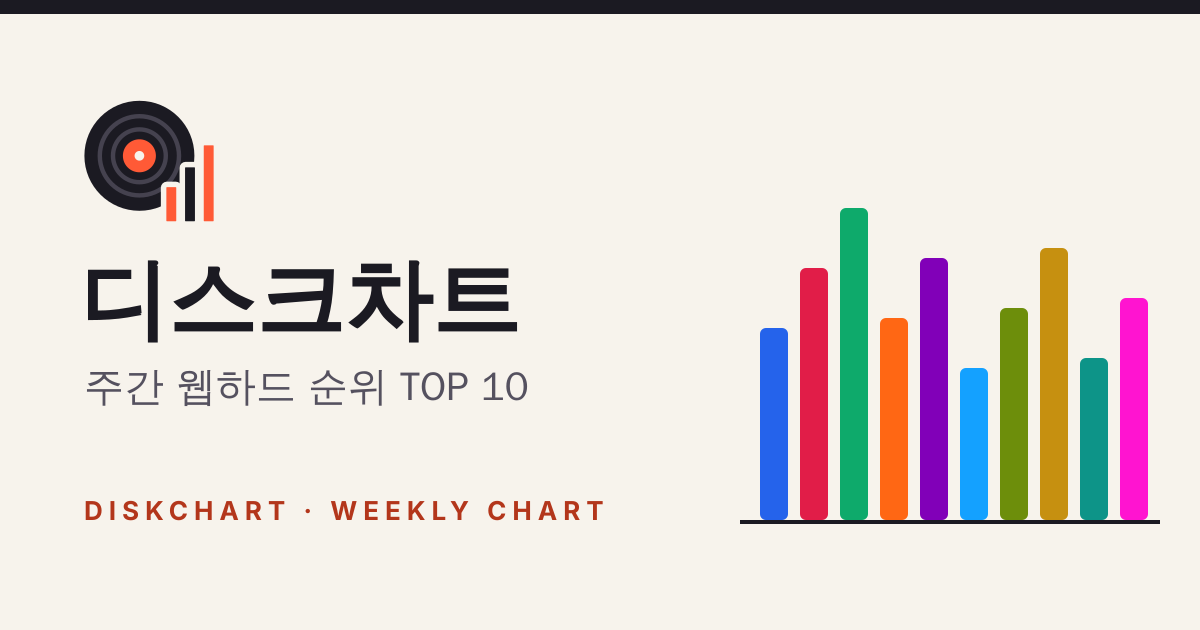
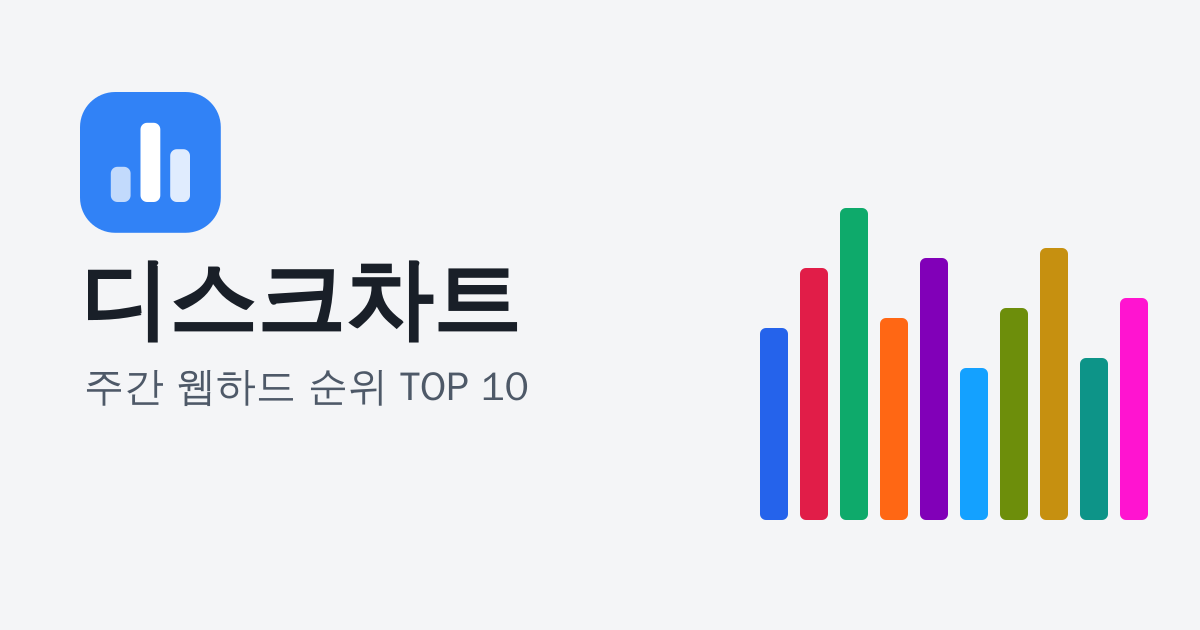
Drop the concept styling for a plain service look
Neutral grey background with white cards, soft shadows instead of heavy black borders and offset shadows, a blue accent, a simple bar-chart mark without the English tagline, and regenerated share and touch images. Mid-tone vendor colors fall back to black text when the ink color would miss AA.

diff --git a/src/css/site.css b/src/css/site.css
@@ -1,20 +1,21 @@
 /* Design tokens: every color, gap and radius used below comes from here. */
 :root {
-  --paper: #f7f3ec;
-  --paper-deep: #eee6d8;
-  --card: #fffdf9;
-  --ink: #1b1a22;
-  --ink-soft: #55515f;
-  --rule: #e2d9c9;
-  --rule-strong: #cbbfac;
-  --brand: #ff5a36;
-  --brand-ink: #b3361b;
-  --up: #c2341f;
+  --paper: #f4f5f7;
+  --paper-deep: #eaecef;
+  --card: #ffffff;
+  --ink: #191f28;
+  --ink-soft: #4e5968;
+  --rule: #e5e8eb;
+  --rule-strong: #cdd2d8;
+  --brand: #3182f6;
+  --brand-ink: #1b64da;
+  --up: #d92633;
   --down: #1f5bc9;
   --new: #7a2fd0;
-  --star: #e89b00;
-  --star-off: #d9cfbf;
-  --focus: #1f5bc9;
+  --star: #f5a000;
+  --star-off: #d1d6db;
+  --focus: #1b64da;
+  --lift: 0 2px 6px rgba(25, 31, 40, 0.04), 0 8px 24px rgba(25, 31, 40, 0.08);
 
   --sp-1: 4px;
   --sp-2: 8px;
@@ -33,7 +34,6 @@
   --wrap: 1180px;
   --tap: 44px;
   --rule-w: 1px;
-  --rule-heavy: 3px;
 
   --font: "Pretendard", "Apple SD Gothic Neo", "Malgun Gothic", "Noto Sans KR", system-ui, sans-serif;
   --fs-xs: 0.8125rem;
@@ -154,8 +154,8 @@ ol {
 .masthead {
   position: relative;
   z-index: 10;
-  background: var(--paper);
-  border-bottom: var(--rule-heavy) solid var(--ink);
+  background: var(--card);
+  border-bottom: var(--rule-w) solid var(--rule);
 }
 
 .masthead-in {
@@ -177,16 +177,6 @@ ol {
   text-decoration: none;
 }
 
-.brand-sub {
-  display: none;
-  padding-left: var(--sp-2);
-  border-left: var(--rule-w) solid var(--rule-strong);
-  color: var(--ink-soft);
-  font-size: var(--fs-xs);
-  font-weight: 600;
-  letter-spacing: 0.08em;
-}
-
 .menu-btn {
   display: inline-flex;
   align-items: center;
@@ -195,7 +185,7 @@ ol {
   min-width: var(--tap);
   min-height: var(--tap);
   padding: 0 var(--sp-3);
-  border: var(--rule-w) solid var(--ink);
+  border: var(--rule-w) solid var(--rule-strong);
   border-radius: var(--r-pill);
   background: var(--card);
   color: var(--ink);
@@ -217,7 +207,8 @@ ol {
   left: 0;
   right: 0;
   background: var(--card);
-  border-bottom: var(--rule-heavy) solid var(--ink);
+  border-bottom: var(--rule-w) solid var(--rule);
+  box-shadow: var(--lift);
 }
 
 .nav.is-open {
@@ -263,8 +254,8 @@ ol {
 .issue {
   padding: 2px var(--sp-2);
   border-radius: var(--r-pill);
-  background: var(--ink);
-  color: var(--paper);
+  background: var(--paper-deep);
+  color: var(--ink);
 }
 
 .hero h1 {
@@ -282,11 +273,6 @@ ol {
   margin-top: var(--sp-2);
   font-size: var(--fs-s);
   font-weight: 700;
-}
-
-.stamp time {
-  padding-bottom: 1px;
-  border-bottom: 2px solid var(--brand);
 }
 
 .caveat {
@@ -311,7 +297,6 @@ ol {
   justify-content: space-between;
   gap: var(--sp-3);
   padding-bottom: var(--sp-2);
-  border-bottom: var(--rule-w) solid var(--ink);
 }
 
 .section-head h2 {
@@ -383,14 +368,15 @@ ol {
 }
 
 .entry.is-podium {
-  border: 2px solid var(--ink);
-  box-shadow: 4px 4px 0 var(--ink);
+  border-color: transparent;
+  border-radius: var(--r-3);
+  box-shadow: var(--lift);
 }
 
 .entry.is-podium:hover,
 .entry.is-podium:focus-within {
-  border-color: var(--ink);
-  box-shadow: 4px 4px 0 var(--vc);
+  border-color: var(--vc);
+  box-shadow: var(--lift);
 }
 
 .entry.is-podium .entry-no {
@@ -408,10 +394,6 @@ ol {
 
 .entry.is-podium .entry-name.is-longer {
   font-size: var(--fs-xs);
-}
-
-.rest .entry {
-  background: transparent;
 }
 
 .move {
@@ -808,8 +790,8 @@ ol {
 .notice {
   margin-top: var(--sp-5);
   padding: var(--sp-3) var(--sp-4);
-  border-left: var(--rule-heavy) solid var(--brand);
-  background: var(--card);
+  border-radius: var(--r-2);
+  background: var(--paper-deep);
   color: var(--ink-soft);
   font-size: var(--fs-xs);
 }
@@ -969,7 +951,7 @@ ol {
   justify-content: space-between;
   padding: var(--sp-2) var(--sp-4);
   font-weight: 800;
-  border-top: var(--rule-heavy) solid var(--ink);
+  border-top: var(--rule-w) solid var(--rule-strong);
 }
 
 .trend {
@@ -1094,10 +1076,6 @@ ol {
     --gutter: 24px;
   }
 
-  .brand-sub {
-    display: inline;
-  }
-
   .kicker {
     display: flex;
   }
@@ -1125,6 +1103,7 @@ ol {
     position: static;
     background: none;
     border: 0;
+    box-shadow: none;
   }
 
   .nav ul {

diff --git a/src/css/nojs.css b/src/css/nojs.css
@@ -11,6 +11,7 @@
   position: static;
   background: none;
   border: 0;
+  box-shadow: none;
 }
 
 .nav ul {

diff --git a/CLAUDE.md b/CLAUDE.md
@@ -76,9 +76,10 @@ tests/                  단위·빌드 테스트, render.mjs·ui-audit.mjs, fixt
 - **`_site/`에는 공개 HTML/assets/sitemap/robots/llms/favicon만**. `data/`·소스·테스트·설정 제외.
 - **CSP/referrer 전체 적용**, 인라인 `style` 금지; `.vc-<id>`/`.st-NN` 빌드 생성. 이동 페이지 인라인 스크립트에 CSP 해시. HTML **140칸 제한**(한글 2칸).
 - 메인 1~3위·갱신일; 카드 순위·업체·별점·혜택·링크. **44px 터치 영역, WCAG AA, 키보드 포커스, 가로 스크롤 금지, JS 없이 주요 콘텐츠 표시**. 모바일 메뉴 바깥 클릭/Esc 닫기.
-- 디자인: 밝은 종이 톤·큰 순위 숫자·한 업체 한 행·업체색 3구간 막대. 우상단 요약은 **배경 없는 옅은 패널**(왼쪽 선만)로 순위표보다 약하게, **줄글 없이 라벨+값 핵심 수치만**.
+- 디자인: **일반 서비스형**(중립 회색 바탕·흰 카드·부드러운 그림자·파랑 강조)·큰 순위 숫자·한 업체 한 행·업체색 3구간 막대.
+  컨셉 장식(종이 질감, 굵은 검정 테두리·겹친 그림자, 사물 흉내 로고, 영문 장식 문구) 금지. 우상단 요약은 **배경 없는 옅은 패널**(왼쪽 선만)로 순위표보다 약하게, **줄글 없이 라벨+값 핵심 수치만**.
   스타일 값은 **`site.css :root`**에서만 수정.
-- 시각 위계: 제목 → 1~3위 → 4~10위 → 나머지 순으로 눈이 가게. **1~3위는 항상 4위 이하보다 두 가지 이상 다르게 강조**(현재: 굵은 테두리·그림자·큰 순위 숫자, 데스크톱은 3단 카드).
+- 시각 위계: 제목 → 1~3위 → 4~10위 → 나머지 순으로 눈이 가게. **1~3위는 항상 4위 이하보다 두 가지 이상 다르게 강조**(현재: 그림자 카드·테두리 없음·큰 순위 숫자, 데스크톱은 3단 카드).
   첫 화면에서 순위 카드보다 눈에 띄는 상자(진한 배경 등) 금지. 머리글과 첫 상자 24px, 배경 있는 상자끼리 16px 이상(검사로 확인).
 - SEO: 메인 title/h1에 **"웹하드 순위"+년·월**; 갱신일=`dateModified`. 상세 제목 `<업체> 순위·가입 혜택·이벤트 (<년.월>) | <브랜드>`. title **30~60자**, description **80~150자**.
   메인 JSON-LD(WebSite/CollectionPage/ItemList/FAQPage), 상세/기준 BreadcrumbList.
